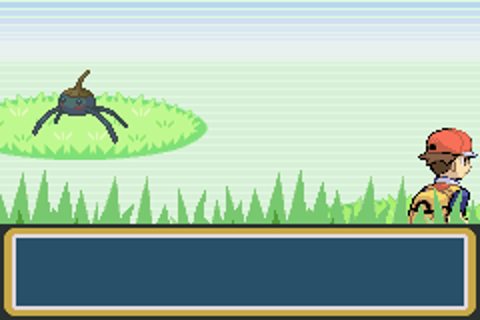
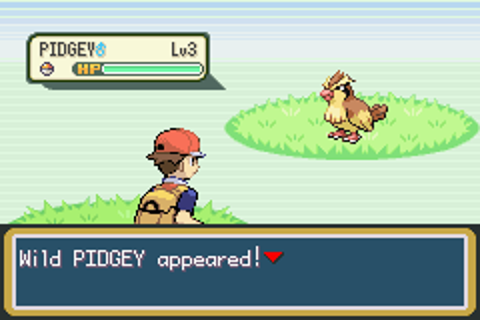
Home: Misty with Starmie for Meet the Ace; clean Route 1 wild Pidgey shot

diff --git a/index.html b/index.html
@@ -75,10 +75,10 @@ body{background:#000;color:#f5f5f7}
 <section class="hs flip" id="s-postgame"><div class="htext"><h2>Upgraded Postgame</h2><p>Johto &amp; Hoenn leaders on the Johto Isles, gym rematches, Elite Four rematches, additional new trainers, and more.</p><a class="more" href="changes.html#postgame">Postgame details &rsaquo;</a></div><figure class="shot map"><img src="home/postgame.png" alt="Skyreach, the first of the Johto Isles" loading="lazy"></figure></section>
 <section class="hs" id="s-modes"><div class="htext"><h2>Game Modes</h2><p>Hard mode with enforced level caps and perma-death. A randomizer built in. An optional Pallet Town NPC who gives key supplies.</p><a class="more" href="changes.html#modes">Modes details &rsaquo;</a></div><figure class="shot"><img src="home/modes.png" alt="The randomizer settings screen with the GENS row" loading="lazy"></figure></section>
 <section class="hs flip" id="s-trainers"><div class="htext"><h2>Trainer Teams</h2><p>300+ trainer teams rebuilt, largely based on the ideology of Yellow Legacy by the SmithPlaysPokemon team.</p></div><figure class="shot"><img src="home/trainers.png" alt="A Lv 63 Alakazam leading the Champion's team" loading="lazy"></figure></section>
-<section class="hs" id="s-wild"><div class="htext"><h2>Wild Encounters</h2><p>All wild encounters updated, again heavily inspired by Yellow Legacy's decisions. All 386 Pokémon are obtainable.</p></div><figure class="shot"><img src="home/wild.png" alt="A wild Pokémon appears on Route 1" loading="lazy"></figure></section>
+<section class="hs" id="s-wild"><div class="htext"><h2>Wild Encounters</h2><p>All wild encounters updated, again heavily inspired by Yellow Legacy's decisions. All 386 Pokémon are obtainable.</p></div><figure class="shot"><img src="home/wild.png" alt="A wild Pidgey appears on Route 1" loading="lazy"></figure></section>
 <section class="hs flip" id="s-gyms"><div class="htext"><h2>Gym Order</h2><p>Erika, Koga, Sabrina, and Blaine can be battled in any order. Their teams adjust based on the order you battle them.</p></div><figure class="shot map"><img src="home/gyms.png" alt="Erika's Celadon Gym" loading="lazy"></figure></section>
 <section class="hs" id="s-curve"><div class="htext"><h2>Level Curve</h2><p>Levels climb smoothly with updated trainer teams.</p></div><figure class="shot"><svg viewBox="0 0 480 300" role="img" aria-label="Hard mode level cap by badge: Brock 12, Misty 21, Surge 24, Gym 4 35, Gym 5 43, Gym 6 50, Gym 7 53, Giovanni 55, Elite 4 65"><defs><linearGradient id="fire" x1="0" y1="1" x2="0" y2="0"><stop offset="0" stop-color="#ff512f"/><stop offset="1" stop-color="#f09819"/></linearGradient></defs><text x="34" y="20" font-size="12" fill="#a1a1a6">Hard mode level cap by badge</text><rect x="40" y="215" width="34" height="41" rx="5" fill="url(#fire)"/><text x="57" y="209" text-anchor="middle" font-size="13" font-weight="700" fill="#f5f5f7">12</text><text x="57" y="276" text-anchor="middle" font-size="10.5" fill="#a1a1a6">Brock</text><rect x="86" y="185" width="34" height="71" rx="5" fill="url(#fire)"/><text x="103" y="179" text-anchor="middle" font-size="13" font-weight="700" fill="#f5f5f7">21</text><text x="103" y="276" text-anchor="middle" font-size="10.5" fill="#a1a1a6">Misty</text><rect x="132" y="175" width="34" height="81" rx="5" fill="url(#fire)"/><text x="148" y="169" text-anchor="middle" font-size="13" font-weight="700" fill="#f5f5f7">24</text><text x="148" y="276" text-anchor="middle" font-size="10.5" fill="#a1a1a6">Surge</text><rect x="177" y="138" width="34" height="118" rx="5" fill="url(#fire)"/><text x="194" y="132" text-anchor="middle" font-size="13" font-weight="700" fill="#f5f5f7">35</text><text x="194" y="276" text-anchor="middle" font-size="10.5" fill="#a1a1a6">Gym 4</text><rect x="223" y="110" width="34" height="146" rx="5" fill="url(#fire)"/><text x="240" y="104" text-anchor="middle" font-size="13" font-weight="700" fill="#f5f5f7">43</text><text x="240" y="276" text-anchor="middle" font-size="10.5" fill="#a1a1a6">Gym 5</text><rect x="269" y="87" width="34" height="169" rx="5" fill="url(#fire)"/><text x="286" y="81" text-anchor="middle" font-size="13" font-weight="700" fill="#f5f5f7">50</text><text x="286" y="276" text-anchor="middle" font-size="10.5" fill="#a1a1a6">Gym 6</text><rect x="315" y="77" width="34" height="179" rx="5" fill="url(#fire)"/><text x="332" y="71" text-anchor="middle" font-size="13" font-weight="700" fill="#f5f5f7">53</text><text x="332" y="276" text-anchor="middle" font-size="10.5" fill="#a1a1a6">Gym 7</text><rect x="360" y="70" width="34" height="186" rx="5" fill="url(#fire)"/><text x="377" y="64" text-anchor="middle" font-size="13" font-weight="700" fill="#f5f5f7">55</text><text x="377" y="276" text-anchor="middle" font-size="10.5" fill="#a1a1a6">Giovanni</text><rect x="406" y="36" width="34" height="220" rx="5" fill="url(#fire)"/><text x="423" y="30" text-anchor="middle" font-size="13" font-weight="700" fill="#f5f5f7">65</text><text x="423" y="276" text-anchor="middle" font-size="10.5" fill="#a1a1a6">Elite 4</text></svg></figure></section>
-<section class="hs flip" id="s-ace"><div class="htext"><h2>Meet the Ace</h2><p>Every leader and Elite Four member stands beside their signature Pokémon.</p></div><figure class="shot"><img src="home/ace.png" alt="Gary waits in the Champion's room with his ace beside him" loading="lazy"></figure></section>
+<section class="hs flip" id="s-ace"><div class="htext"><h2>Meet the Ace</h2><p>Every leader and Elite Four member stands beside their signature Pokémon.</p></div><figure class="shot"><img src="home/ace.png" alt="Misty stands beside her ace, Starmie, in the Cerulean Gym" loading="lazy"></figure></section>
 <section class="hs" id="s-follow"><div class="htext"><h2>Following Pokémon</h2><p>HeartGold/SoulSilver-style following Pokémon.</p></div><figure class="shot"><img src="home/follow.png" alt="Lugia following the player on One Island" loading="lazy"></figure></section>
   </main>
 </div>
